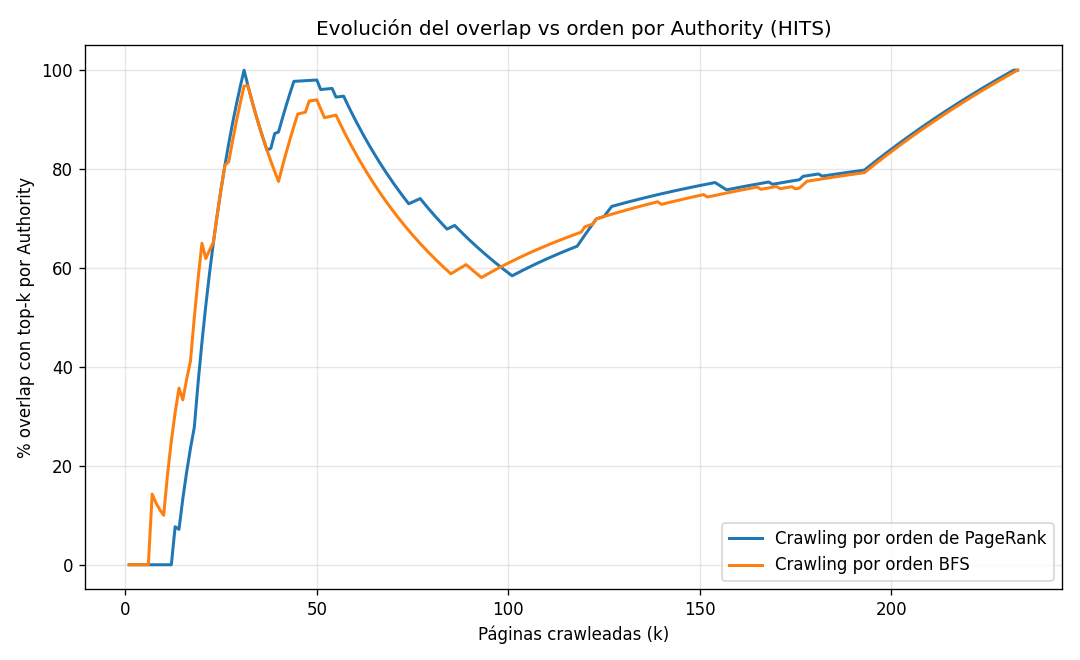
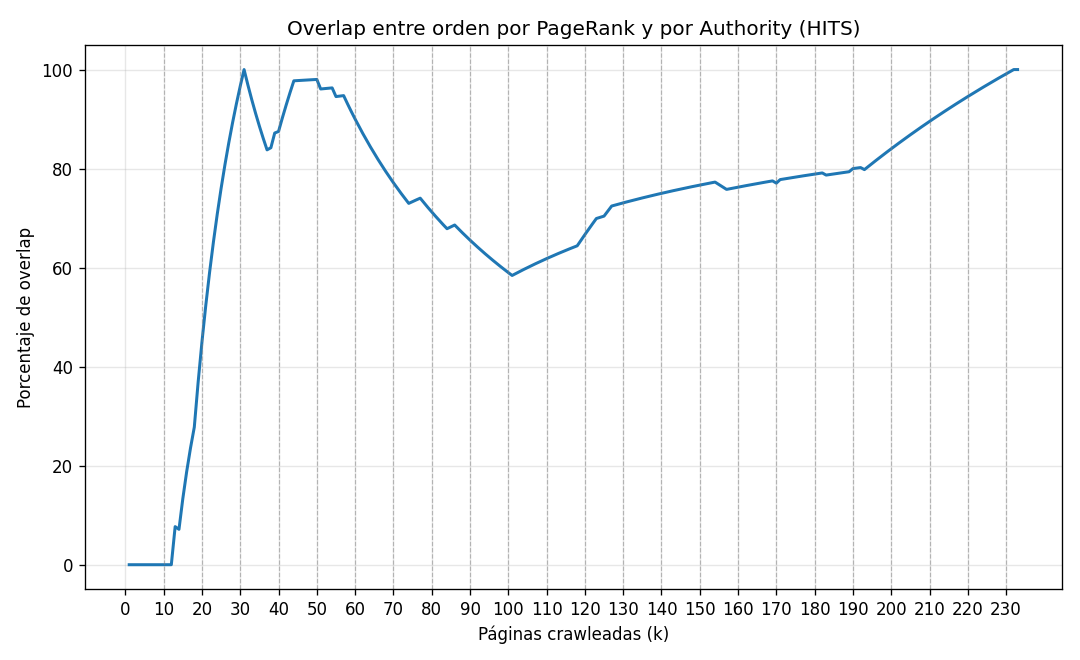
Add corrections to P5

diff --git a/TP05/punto_5/TP05_P5.py b/TP05/punto_5/TP05_P5.py
@@ -1,9 +1,7 @@
 #!/usr/bin/env python3
 # -*- coding: utf-8 -*-
 """
-TP05 - Punto 5: Recolección intra-dominio + PageRank/Authorities (HITS) con
-NetworkX, y comparación de estrategias de crawling (BFS vs orden PageRank)
-midiendo el overlap contra el orden por Authority.
+TP05 - Punto 5
 
 Uso:
     python TP05_P5.py <URL> [--max-pages 500]
@@ -13,9 +11,8 @@ Ejemplo:
     python TP05_P5.py https://en.wikipedia.org --max-pages 500
 
 Salida:
-    output/pages.csv     url, orden_bfs, prof_fisica, pagerank, authority.
-    output/overlap.csv    k, overlap_pagerank, overlap_bfs (en %).
-    output/overlap.png    evolución del % de overlap vs Authority.
+    output/pages.csv      url, orden_bfs, prof_fisica, pagerank, authority.
+    output/overlap.png    evolución del % de overlap PR vs HITS.
 """
 
 import os
@@ -32,7 +29,7 @@ import matplotlib
 matplotlib.use("Agg")
 import matplotlib.pyplot as plt
 
-# ── Límites y concurrencia ────────────────────────────────────────────────────
+# ── Constantes ────────────────────────────────────────────────────────────────
 MAX_LOGICAL = 100          # tope de seguridad; el límite real es --max-pages
 WORKERS = 8                # bajar a 1 si el sitio bloquea por concurrencia
 
@@ -101,17 +98,13 @@ def parse_links(html, base_url):
 
 
 # ══════════════════════════════════════════════════════════════════════════════
-# Crawler BFS intra-dominio con tope de páginas
+# Crawler (intra-dominio)
 # ══════════════════════════════════════════════════════════════════════════════
 
 def crawl(base_url, max_pages, max_logical=MAX_LOGICAL, workers=WORKERS):
     """
-    Crawl BFS dentro del dominio de `base_url`, hasta `max_pages` páginas
+    Crawl dentro del dominio de `base_url`, hasta `max_pages` páginas
     descargadas con éxito.
-
-    Devuelve:
-      - pages_order : lista de URLs en orden de descubrimiento (BFS).
-      - edges       : lista de (origen, destino) de enlaces intra-dominio.
     """
     base_domain = get_domain(base_url)
     seen = set()
@@ -158,7 +151,7 @@ def crawl(base_url, max_pages, max_logical=MAX_LOGICAL, workers=WORKERS):
 
 
 # ══════════════════════════════════════════════════════════════════════════════
-# Análisis: PageRank, HITS y overlap de estrategias
+# Análisis: PageRank, HITS y overlap 
 # ══════════════════════════════════════════════════════════════════════════════
 
 def build_graph(pages_order, edges):
@@ -195,7 +188,6 @@ def analyze(pages_order, edges, outdir):
     auth_order = sorted(pages_order, key=lambda u: auth[u], reverse=True)
 
     ov_pr = overlap_curve(pr_order, auth_order)
-    ov_bfs = overlap_curve(bfs_order, auth_order)
     ks = list(range(1, len(pages_order) + 1))
 
     # pages.csv
@@ -207,29 +199,25 @@ def analyze(pages_order, edges, outdir):
             w.writerow([u, rank_bfs[u], physical_depth(u),
                         f"{pr[u]:.8f}", f"{auth[u]:.8f}"])
 
-    # overlap.csv
-    with open(os.path.join(outdir, "overlap.csv"), "w", newline="", encoding="utf-8") as f:
-        w = csv.writer(f)
-        w.writerow(["k", "overlap_pagerank", "overlap_bfs"])
-        for k, a, b in zip(ks, ov_pr, ov_bfs):
-            w.writerow([k, f"{a:.4f}", f"{b:.4f}"])
 
     # overlap.png
     plt.figure(figsize=(9, 5.5))
-    plt.plot(ks, ov_pr, label="Crawling por orden de PageRank", linewidth=1.8)
-    plt.plot(ks, ov_bfs, label="Crawling por orden BFS", linewidth=1.8)
+    plt.plot(ks, ov_pr, linewidth=1.8)
     plt.xlabel("Páginas crawleadas (k)")
-    plt.ylabel("% overlap con top-k por Authority")
-    plt.title("Evolución del overlap vs orden por Authority (HITS)")
-    plt.legend()
+    plt.ylabel("Porcentaje de overlap")
+    plt.title("Overlap entre orden por PageRank y por Authority (HITS)")
+    # Ticks y líneas verticales punteadas cada 10 páginas
+    x_ticks = list(range(0, max(ks) + 1, 10)) if ks else [0]
+    plt.xticks(x_ticks)
+    for x in x_ticks[1:]:   # omitir el 0
+        plt.axvline(x=x, color="gray", linestyle="--", linewidth=0.7, alpha=0.5)
     plt.grid(True, alpha=0.3)
     plt.tight_layout()
     plt.savefig(os.path.join(outdir, "overlap.png"), dpi=120)
 
     print(f"\nNodos: {G.number_of_nodes()} | Aristas: {G.number_of_edges()}")
-    print(f"overlap@50  -> PageRank: {ov_pr[min(49,len(ov_pr)-1)]:.1f}%  "
-          f"BFS: {ov_bfs[min(49,len(ov_bfs)-1)]:.1f}%")
-    print("[OK] output/pages.csv, output/overlap.csv, output/overlap.png")
+    print(f"overlap@50  -> PageRank: {ov_pr[min(49,len(ov_pr)-1)]:.1f}%")
+    print("[OK] output/pages.csv, output/overlap.png")
 
 
 # ══════════════════════════════════════════════════════════════════════════════

diff --git a/TP05/punto_3/TP05_P3.py b/TP05/punto_3/TP05_P3.py
@@ -15,9 +15,7 @@ Ejemplo:
     python TP05_P3.py https://en.wikipedia.org --max-pages 100
 
 Salida:
-    output/pages.csv   Una fila por página descargada: url, prof_logica,
-                       prof_fisica, tipo (dinamica/estatica).
-    (en consola)       Conteo de páginas por tipo y por profundidad (excluyendo L0 y F0).
+    output/pages.csv   url, prof_logica, prof_fisica, tipo (dinamica/estatica).
 """
 
 import os
@@ -30,10 +28,10 @@ from urllib.parse import urljoin, urlparse, urldefrag
 import requests
 from bs4 import BeautifulSoup
 
-# ── Constantes de límites y concurrencia ──────────────────────────────────────
-MAX_LOGICAL = 3
-MAX_PHYSICAL = 3
-WORKERS = 8
+# ── Constantes ────────────────────────────────────────────────────────────────
+MAX_LOGICAL = 4
+MAX_PHYSICAL = 4
+WORKERS = 12
 
 # Extensiones por las que se asume una página generada dinamicamente.
 DYNAMIC_EXTS = {".php", ".asp", ".aspx", ".jsp", ".jspx", ".cgi", ".pl", ".do"}
@@ -72,8 +70,6 @@ def classify_url(url):
     """
     Clasifica la URL como 'dinamica' si tiene query string o extensión de script; 
     'estatica' en caso contrario.
-
-    Limitación conocida: las 'clean URLs' (sin '?' ni extensión, como /dp/B0... de Amazon) se clasifican como estáticas aunque sean dinámicas.
     """
     parsed = urlparse(url)
     if parsed.query:

diff --git a/TP05/punto_2/TP05_P2.py b/TP05/punto_2/TP05_P2.py
@@ -148,7 +148,6 @@ def parse_links(html, base_url):
 def passes_filter(url, max_physical, pages_per_site, max_pages_site):
     """
     Decide si una URL debe agregarse a la todo_list.
-
     Aplica:
       - Profundidad física máxima.
       - Límite de páginas por sitio (dominio).
@@ -169,13 +168,7 @@ def passes_filter(url, max_physical, pages_per_site, max_pages_site):
 
 def crawl(seeds, max_pages_site, max_logical, max_physical, workers=8):
     """
-    Crawler BFS (mismo algoritmo de la figura) pero descargando cada nivel
-    de profundidad lógica en paralelo con un ThreadPoolExecutor.
-
-    Restricciones:
-      - max_logical : profundidad lógica máxima (saltos desde la semilla).
-      - max_physical: profundidad física máxima (niveles de directorio).
-      - max_pages_site: páginas máximas descargadas por dominio.
+    Crawler descargando cada nivel de profundidad lógica en paralelo con un ThreadPoolExecutor.
     """
     done_list = set()
     seen = set()                           # URLs ya encoladas o procesadas